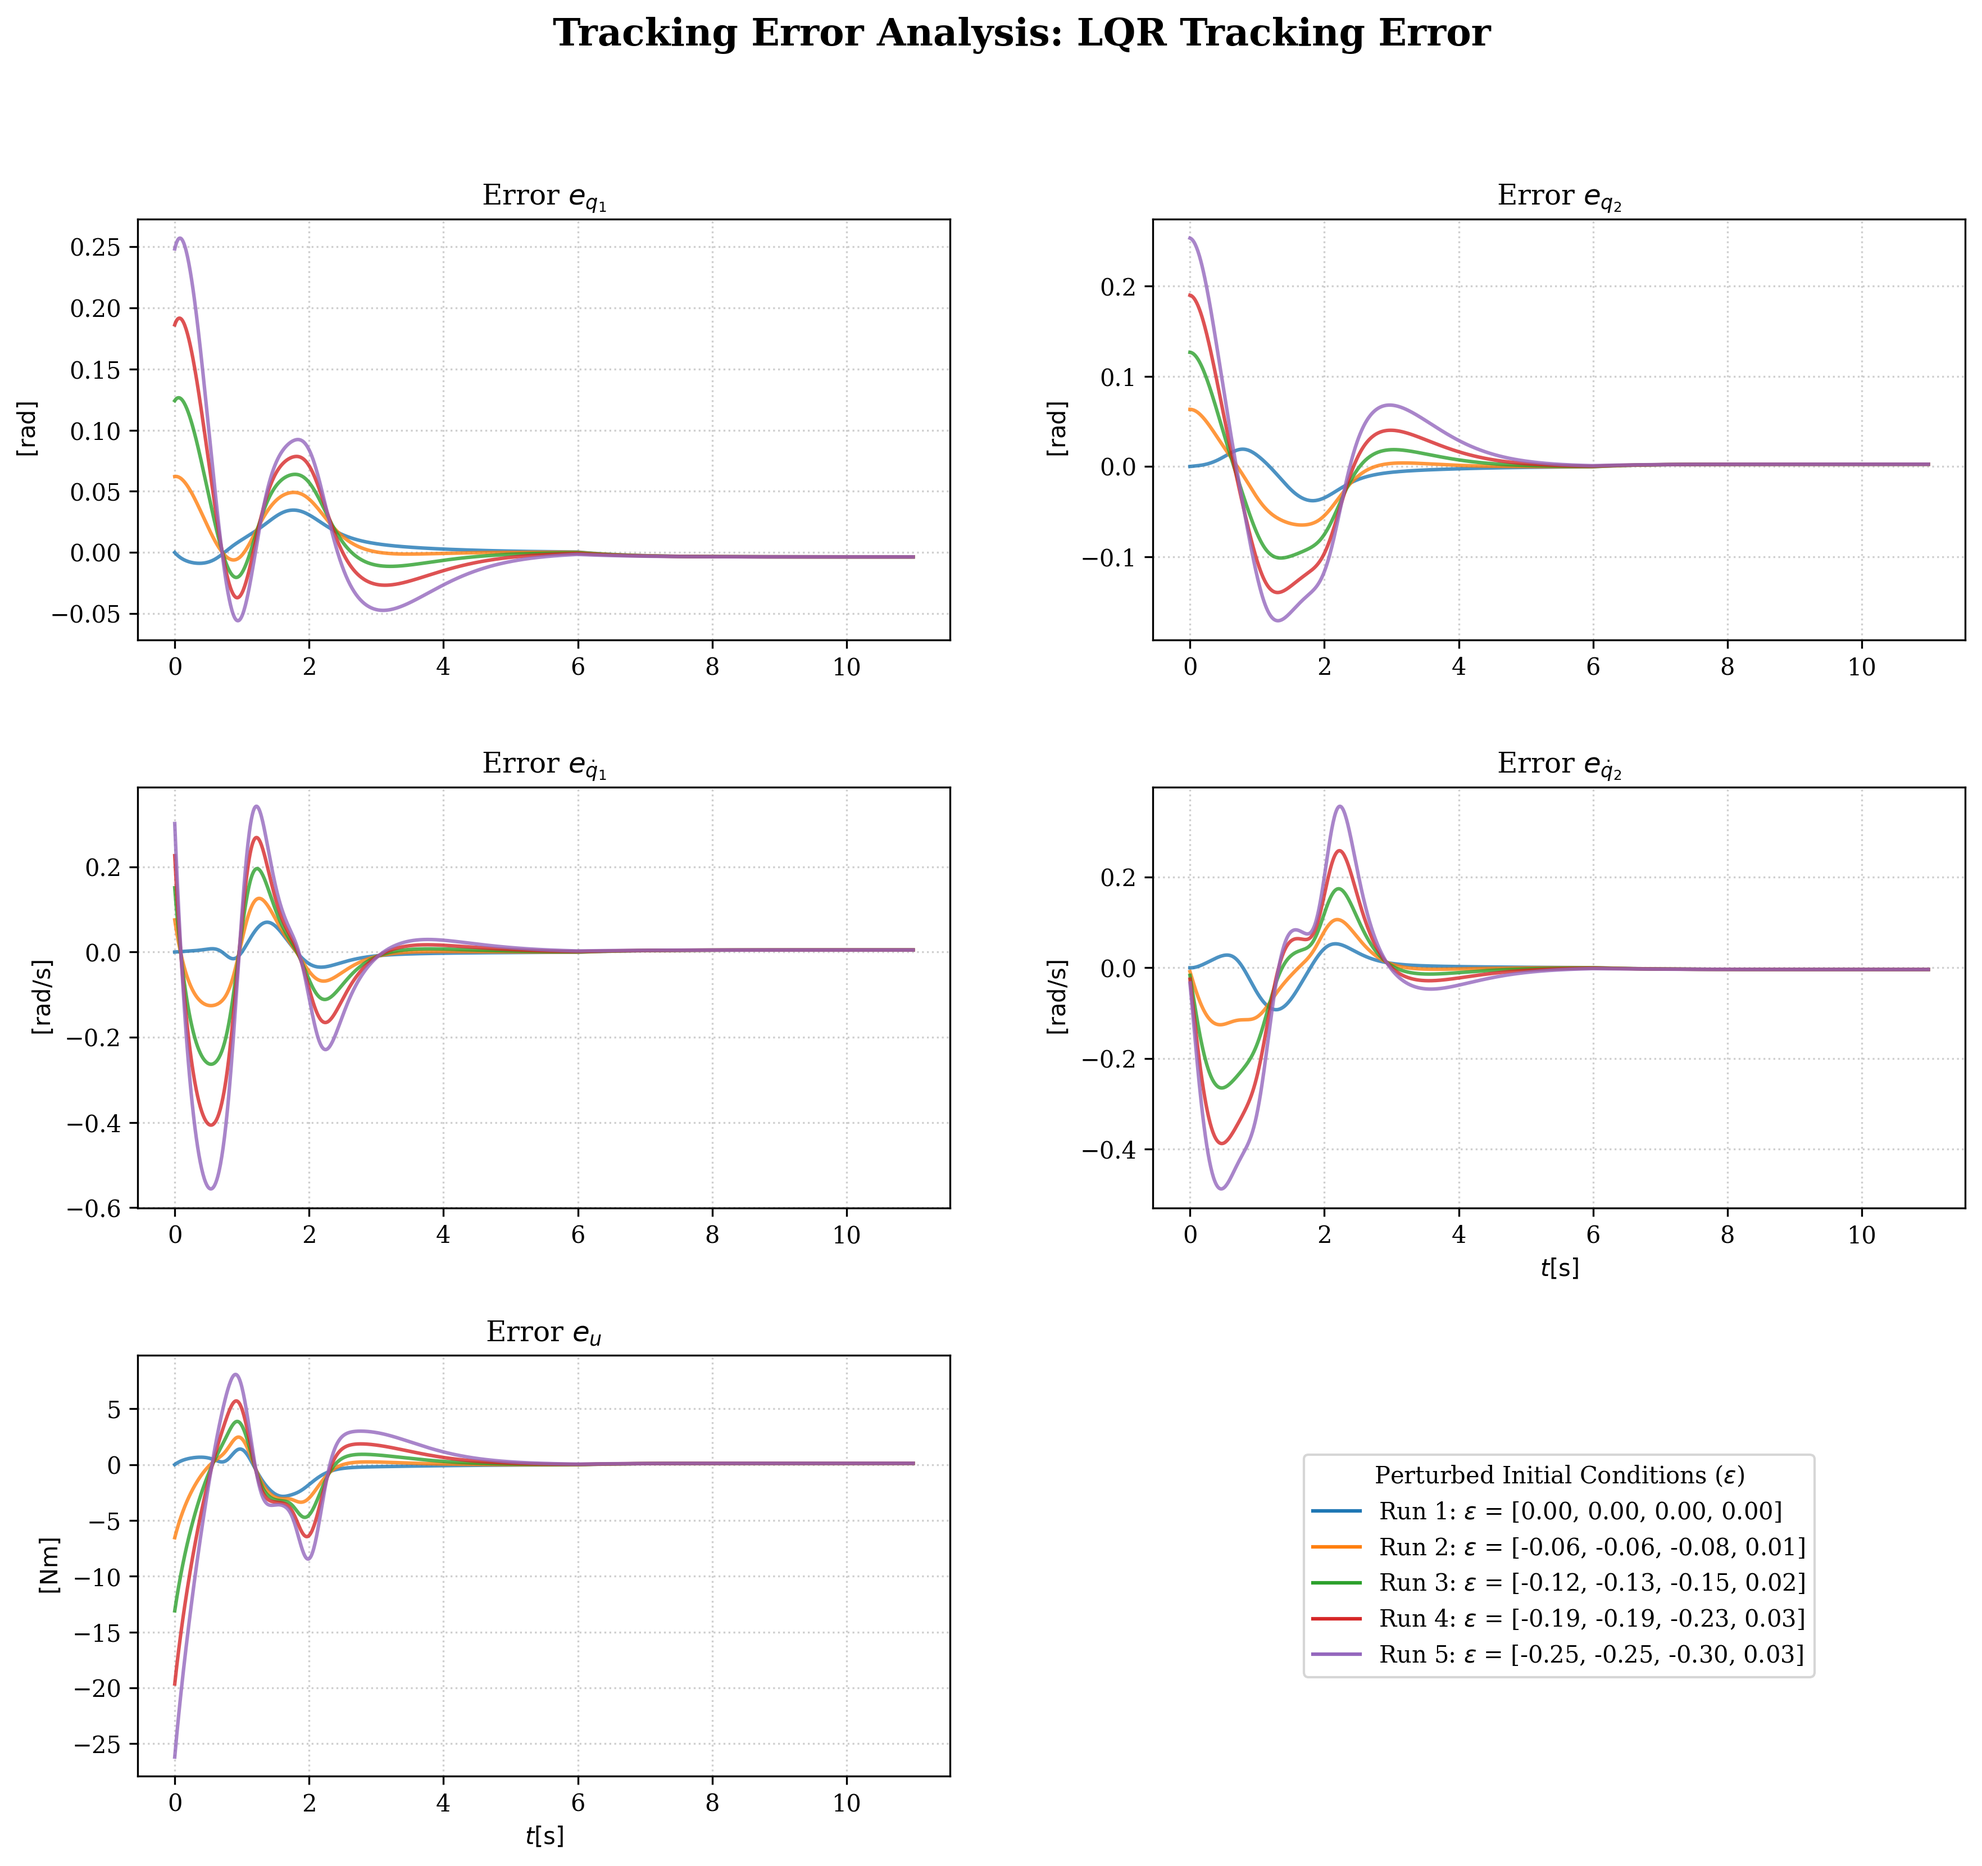
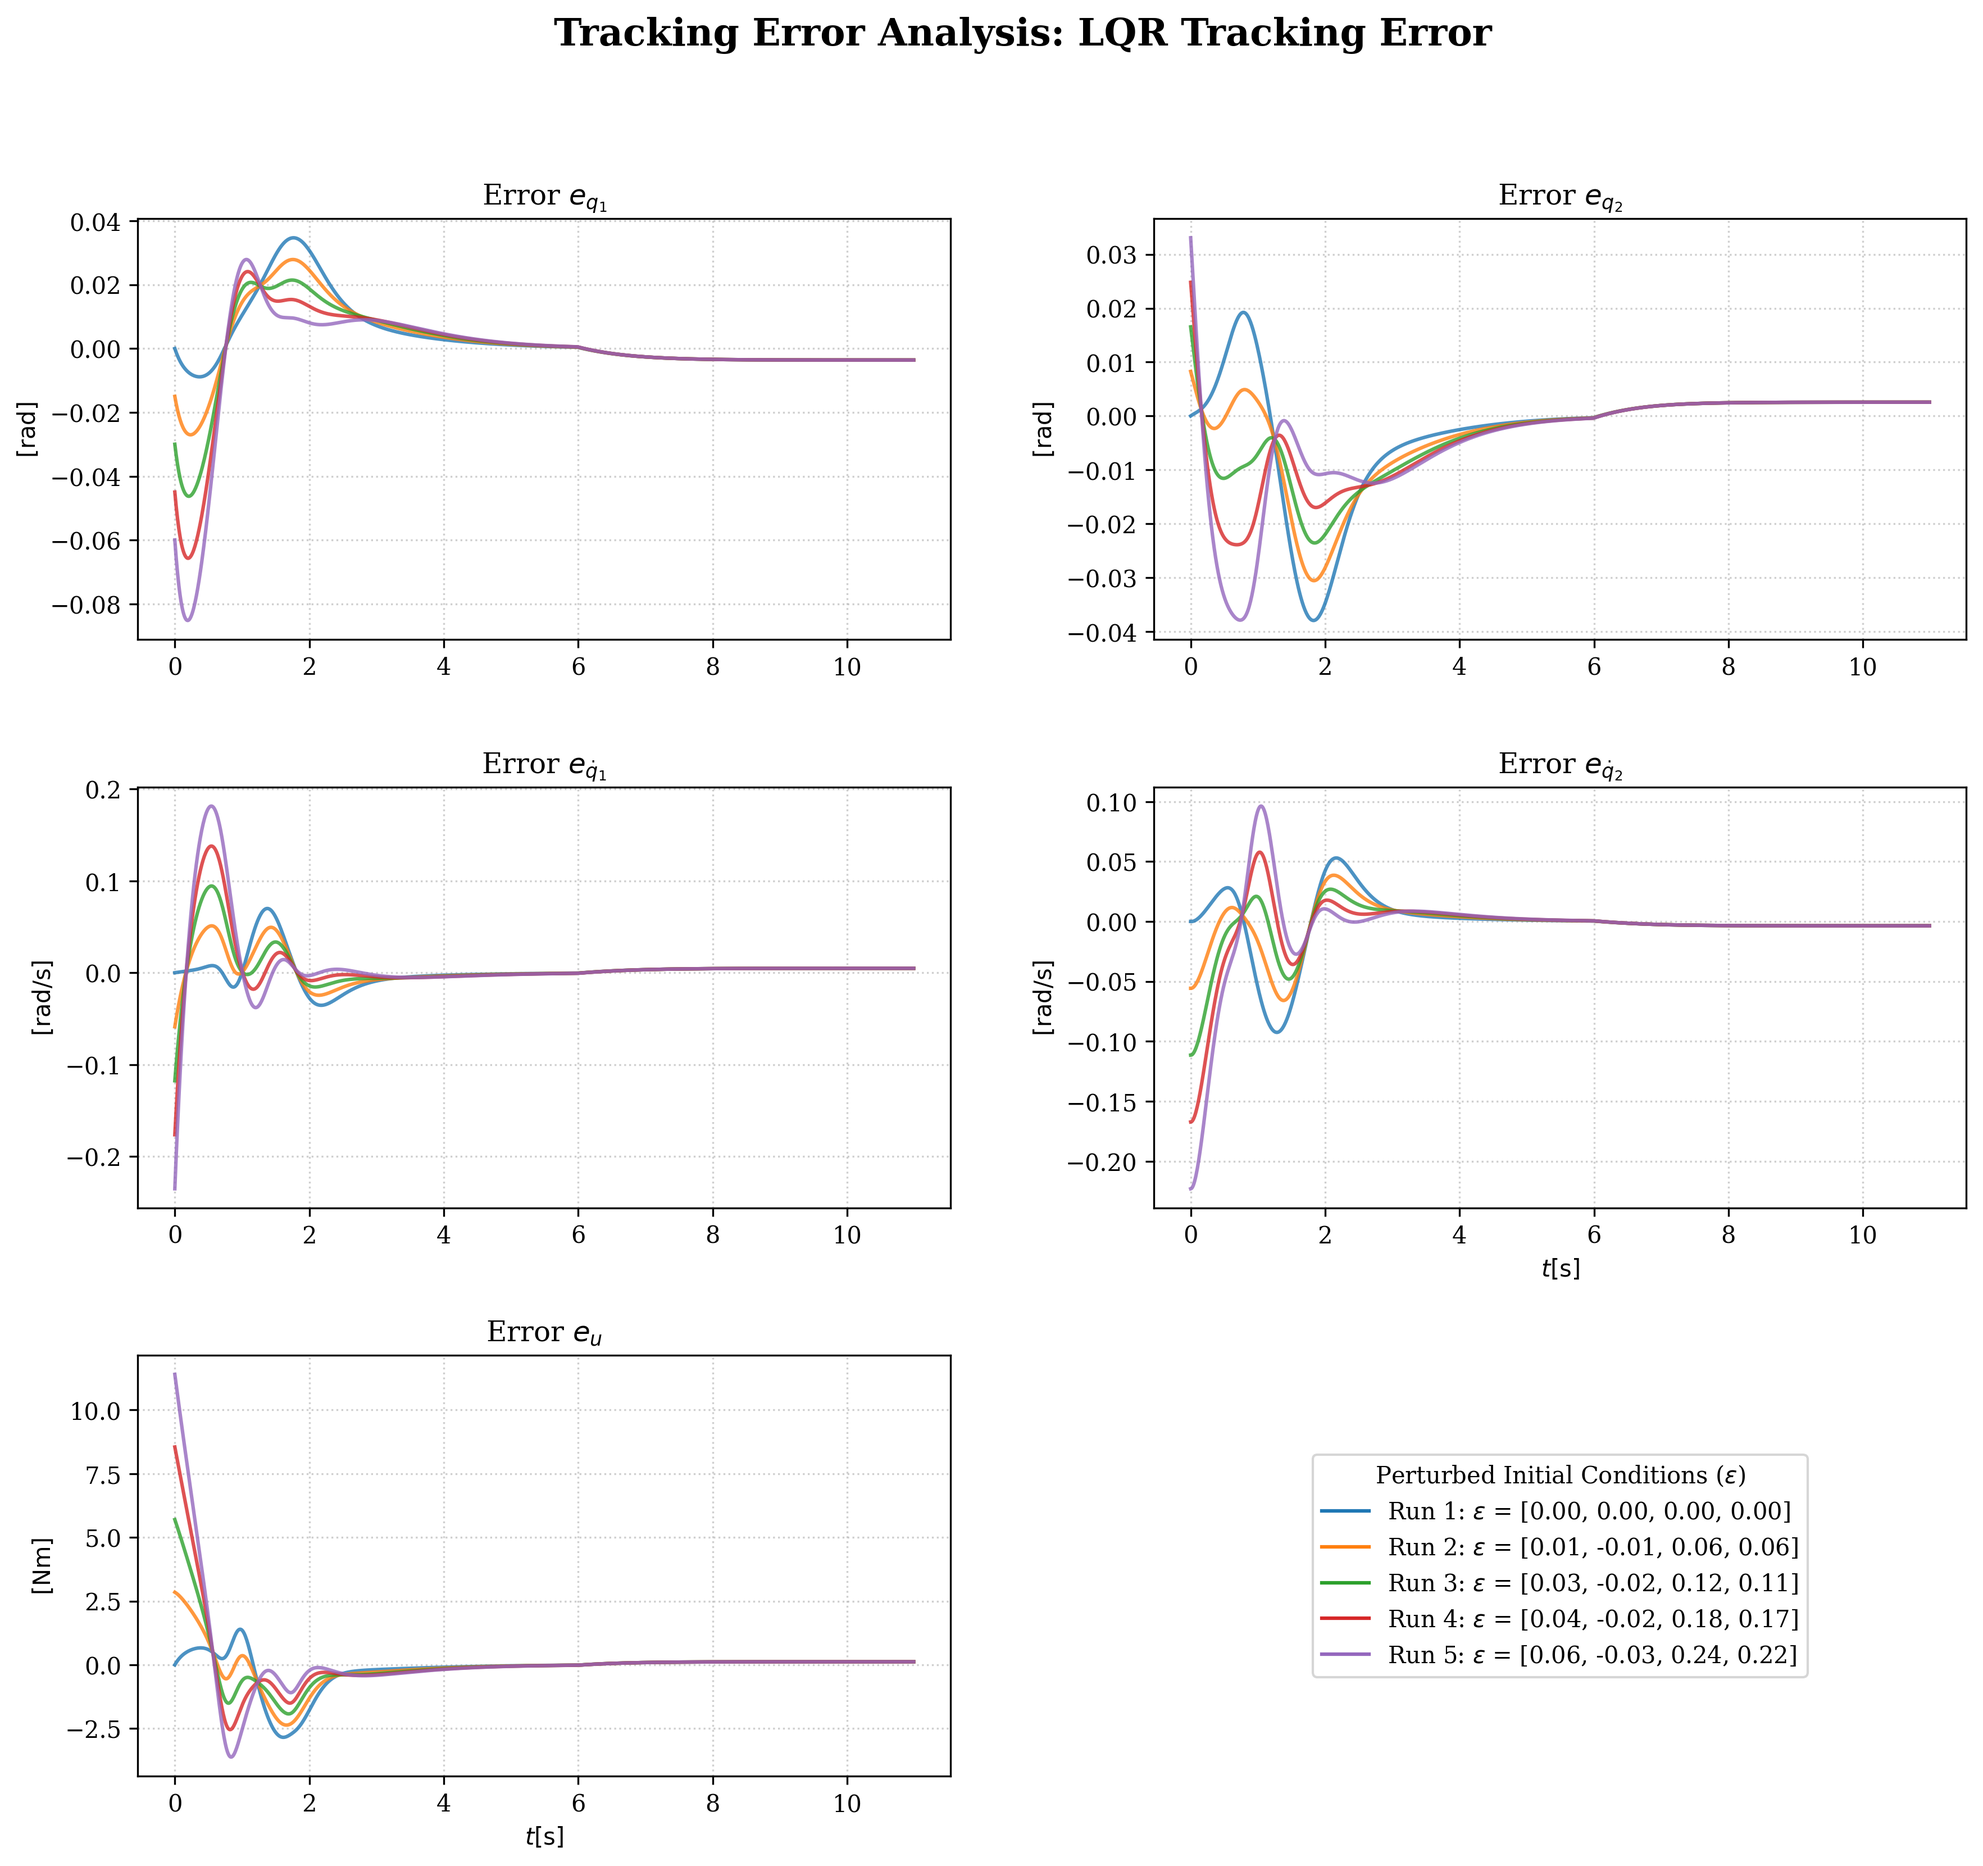
automatized LQR, MPC, possibly enhanced armijo speed

diff --git a/branch5/trajectory_tracking_MPC.py b/branch5/trajectory_tracking_MPC.py
@@ -216,7 +216,7 @@ def trajectory_tracking_MPC(eq_pair1, eq_pair2, xx_star, uu_star, time, umax, um
 
     # Animation of the optimal trajectory
     if plot_flag:
-        anim.animate_comparison(model, xx_mpc[:,:,0], xx_star, eq_pair1, eq_pair2, target_fps=30)
+        anim.animate_comparison(model, xx_mpc[:,:,0], xx_star, eq_pair1, eq_pair2)
 
 
 def main():
@@ -224,55 +224,61 @@ def main():
     # Algorithm Parameters
     ######################################
 
-    task = 'swing_up'   # Choose from keys of equilibrium_traj
     max_iters = 300          # Max Newton iterations for trajectory generation
     n_mid = 20                # Number of mid points for trajectory generation
     method = 'poly5'         # Trajectory generation method: 'poly3' or
-    runs = 5                    # Number of runs with different initial perturbations
-    perturb_scale = 2          # Scale of the initial perturbation
+    runs = 3                    # Number of runs with different initial perturbations
+    perturb_scale = 3          # Scale of the initial perturbation
 
     ######################################
     # Algorithm flags
     ######################################
     
     save_flag = True            # Save flag
-    plot_flag = True            # Plot flag
+    plot_flag = False            # Plot flag
     debug_flag = True           # Debug print flag
 
     ######################################
     # Environment setup
     ######################################
 
-    # Check task name correctness 
-    try:
-        if task not in traj.tasks:
-            raise ValueError(f"Task '{task}' not found in predefined tasks. Please choose a valid task.")
-    except ValueError as e:
-        print(f"\n{e}\nAvailable tasks are: {list(traj.tasks.keys())}\n")
-        exit(1)
-    
-    # Create folder for plots
-    if save_flag:
-        folder = f'report/figs/traj_track_MPC/{task}/'
+    for task in traj.tasks.keys():
+        # Check task name correctness 
+        try:
+            if task not in traj.tasks:
+                raise ValueError(f"Task '{task}' not found in predefined tasks. Please choose a valid task.")
+        except ValueError as e:
+            print(f"\n{e}\nAvailable tasks are: {list(traj.tasks.keys())}\n")
+            exit(1)
+        
+        # Create folder for plots
+        if save_flag:
+            folder = f'report/figs/traj_track_MPC/{task}/'
 
-        # Create folder if it does not exist
-        if not os.path.exists(folder):
-            os.makedirs(folder)
-    else:
-        folder = None
+            # Create folder if it does not exist
+            if not os.path.exists(folder):
+                os.makedirs(folder)
+        else:
+            folder = None
 
-    ######################################
-    # Generate optimal trajectory
-    ######################################
+        ######################################
+        # Generate optimal trajectory
+        ######################################
 
-    xx_star, uu_star, eq_pair1, eq_pair2, time = traj_gen_newton.generate_optimal_trajectory(
-        task=task, max_iters=max_iters, n_mid=n_mid, method=method, plot_armijo=False, plot_flag=False, debug_print=debug_flag)
+        xx_star, uu_star, eq_pair1, eq_pair2, time = traj_gen_newton.generate_optimal_trajectory(
+            task=task, max_iters=max_iters, n_mid=n_mid, method=method, plot_armijo=False, plot_flag=False, debug_print=debug_flag)
+        
+        #choose reasonable umax and umin based on task
+        umax = np.max(np.abs(uu_star)) * 0.95
 
-    ######################################
-    # Trajectory tracking via MPC
-    ######################################
+        #choose reasonable T_pred based on task length
+        T_pred = min(100, len(time)//2)
 
-    trajectory_tracking_MPC(eq_pair1, eq_pair2, xx_star, uu_star, time, umax=100, umin=-100, T_pred=100, runs=runs, perturb=True, perturbation_scale=perturb_scale, plot_flag=plot_flag, print_debug=True, folder=folder)
+        ######################################
+        # Trajectory tracking via MPC
+        ######################################
+
+        trajectory_tracking_MPC(eq_pair1, eq_pair2, xx_star, uu_star, time, umax=umax, umin=-umax, T_pred=T_pred, runs=runs, perturb=True, perturbation_scale=perturb_scale, plot_flag=plot_flag, print_debug=True, folder=folder)
 
 
 if __name__ == "__main__":

diff --git a/branch5/trajectory_tracking_LQR.py b/branch5/trajectory_tracking_LQR.py
@@ -192,7 +192,7 @@ def trajectory_tracking_LQR(eq_pair1: tuple, eq_pair2: tuple, xx_star: np.ndarra
     plots.tracking_error(time_ext, xx_star, uu_star, xx_lqr, uu_lqr, title="LQR Tracking Error", plot_flag=plot_flag, folder=folder)
 
     # Animation of the tracking for the first run
-    anim.animate_comparison(model, xx_lqr[:,:,0], xx_star, eq_pair1, eq_pair2, dt, plot_flag=plot_flag, folder=folder)
+    anim.animate_comparison(model, xx_lqr[:,:,0], xx_star, eq_pair1, eq_pair2, dt, plot_flag=True, folder=folder)
 
 ######################################
 # MAIN
@@ -204,7 +204,7 @@ def main():
     # Algorithm Parameters
     ######################################
 
-    task = 'topside_pump'   # Choose from keys of equilibrium_traj
+    
     max_iters = 300          # Max Newton iterations for trajectory generation
     n_mid = 20                # Number of mid points for trajectory generation
     method = 'poly5'         # Trajectory generation method: 'poly3' or
@@ -216,45 +216,47 @@ def main():
     ######################################
     
     save_flag = True            # Save flag
-    plot_flag = True            # Plot flag
+    plot_flag = False            # Plot flag
     debug_flag = True           # Debug print flag
 
     ######################################
     # Environment setup
     ######################################
-
-    # Check task name correctness 
-    try:
-        if task not in traj.tasks:
-            raise ValueError(f"Task '{task}' not found in predefined tasks. Please choose a valid task.")
-    except ValueError as e:
-        print(f"\n{e}\nAvailable tasks are: {list(traj.tasks.keys())}\n")
-        exit(1)
     
-    # Create folder for plots
-    if save_flag:
-        folder = f'report/figs/traj_track_LQR/{task}/'
 
-        # Create folder if it does not exist
-        if not os.path.exists(folder):
-            os.makedirs(folder)
-    else:
-        folder = None
+    for task in traj.tasks.keys():    
+        # Check task name correctness 
+        try:
+            if task not in traj.tasks:
+                raise ValueError(f"Task '{task}' not found in predefined tasks. Please choose a valid task.")
+        except ValueError as e:
+            print(f"\n{e}\nAvailable tasks are: {list(traj.tasks.keys())}\n")
+            exit(1)
+        
+        # Create folder for plots
+        if save_flag:
+            folder = f'report/figs/traj_track_LQR/{task}/'
 
-    ######################################
-    # Generate optimal trajectory
-    ######################################
+            # Create folder if it does not exist
+            if not os.path.exists(folder):
+                os.makedirs(folder)
+        else:
+            folder = None
 
-    xx_star, uu_star, eq_pair1, eq_pair2, time = traj_gen_newton.generate_optimal_trajectory(
-        task=task, max_iters=max_iters, n_mid=n_mid, method=method, plot_armijo=False, plot_flag=False, debug_print=debug_flag)
-    
-    ######################################
-    # Track optimal trajectory via LQR
-    ######################################
+        ######################################
+        # Generate optimal trajectory
+        ######################################
 
-    trajectory_tracking_LQR(
-        eq_pair1, eq_pair2, xx_star, uu_star, time, extend_time=5, runs=runs, 
-        perturb=True, perturbation_scale=perturb_scale, plot_flag=plot_flag, debug_print=debug_flag, folder=folder)
+        xx_star, uu_star, eq_pair1, eq_pair2, time = traj_gen_newton.generate_optimal_trajectory(
+            task=task, max_iters=max_iters, n_mid=n_mid, method=method, plot_armijo=False, plot_flag=False, debug_print=debug_flag)
+        
+        ######################################
+        # Track optimal trajectory via LQR
+        ######################################
+
+        trajectory_tracking_LQR(
+            eq_pair1, eq_pair2, xx_star, uu_star, time, extend_time=5, runs=runs, 
+            perturb=True, perturbation_scale=perturb_scale, plot_flag=plot_flag, debug_print=debug_flag, folder=folder)
 
 
 if __name__ == "__main__":

diff --git a/branch5/plots.py b/branch5/plots.py
@@ -674,7 +674,7 @@ def armijo_descent(steps: np.ndarray, costs: np.ndarray, JJ: float, descent_arm:
 
         plt.savefig(f"{folder}/armijo/armijo_iteration_{kk}.png", dpi=300, bbox_inches='tight')
     
-    plt.pause(0.01)
+    #plt.pause(0.01) when saving it is not needed
     
 def descent_direction(descent: np.ndarray, iters: int, phase_iters: list = None, plot_flag: bool = True, folder: str = None) -> None:
     """
